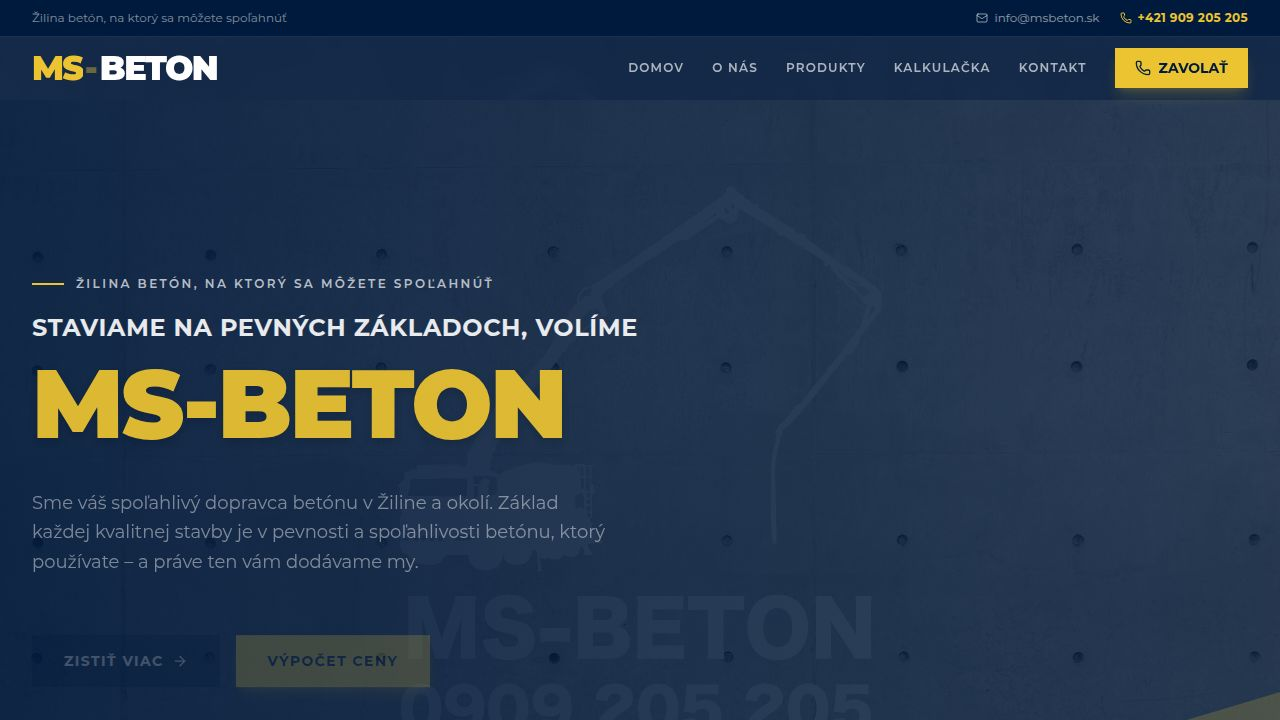
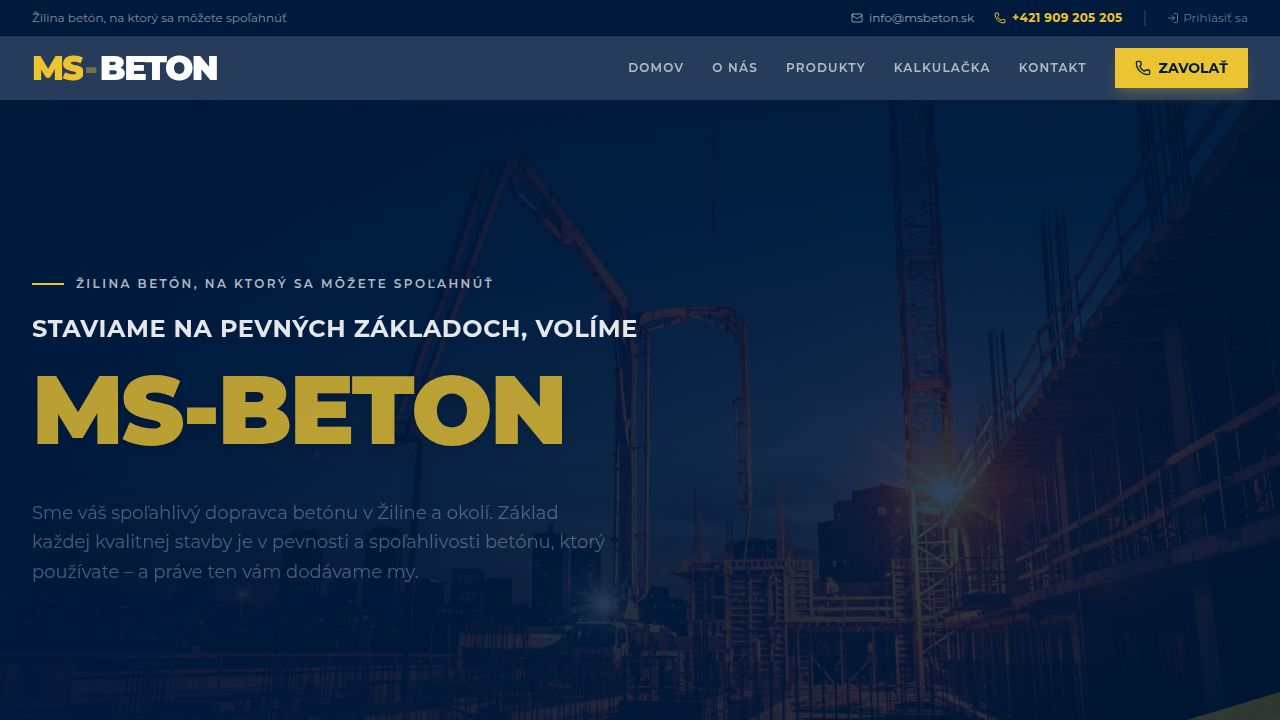
Update website background to a cleaner concrete texture
Replaced existing concrete tile background images with a new, crane-free concrete texture in CSS, adjusting background sizing and positioning for full coverage.

Replit-Commit-Author: Agent
Replit-Commit-Session-Id: f2350a5e-228c-4b8e-9819-9178194cdef0
Replit-Commit-Checkpoint-Type: full_checkpoint
Replit-Commit-Event-Id: 77dc2888-f089-4890-aff5-fc94e3589986
Replit-Commit-Screenshot-Url: https://storage.googleapis.com/screenshot-production-us-central1/8593ea9e-8801-47ee-92dc-188f75a549a7/f2350a5e-228c-4b8e-9819-9178194cdef0/s1Dq1RA
Replit-Helium-Checkpoint-Created: true

diff --git a/artifacts/web/src/index.css b/artifacts/web/src/index.css
@@ -61,18 +61,20 @@
 
 /* Concrete texture — raw tile */
 .concrete-bg {
-  background-image: url('/images/concrete-tile.jpg');
-  background-size: 960px auto;
-  background-repeat: repeat;
-  background-color: #b8b8b8;
+  background-image: url('/images/concrete-pure.jpg');
+  background-size: cover;
+  background-repeat: no-repeat;
+  background-position: center;
+  background-color: #b2b2b2;
 }
 
 /* Concrete dark — navy overlay on concrete */
 .concrete-navy {
-  background-image: url('/images/concrete-tile.jpg');
-  background-size: 960px auto;
-  background-repeat: repeat;
-  background-color: #b8b8b8;
+  background-image: url('/images/concrete-pure.jpg');
+  background-size: cover;
+  background-repeat: no-repeat;
+  background-position: center;
+  background-color: #b2b2b2;
   position: relative;
 }
 .concrete-navy::before {
@@ -89,10 +91,11 @@
 
 /* Concrete light — same texture, lighter overlay */
 .concrete-light {
-  background-image: url('/images/concrete-tile.jpg');
-  background-size: 960px auto;
-  background-repeat: repeat;
-  background-color: #b8b8b8;
+  background-image: url('/images/concrete-pure.jpg');
+  background-size: cover;
+  background-repeat: no-repeat;
+  background-position: center;
+  background-color: #b2b2b2;
   position: relative;
 }
 .concrete-light::before {

diff --git a/attached_assets/content-1774988767866.md b/attached_assets/content-1774988767866.md
@@ -1,0 +1,105 @@
+[Preskočiť na obsah](https://msbeton.sk/#content)
+
+[![MS-BETON - Žilina betón](https://msbeton.sk/wp-content/uploads/2024/04/main-logo.svg)](https://msbeton.sk/)
+
+[+421 909 205 205](tel:%20+421%20909%20205%20205)
+
+[![MS-BETON - Žilina betón](https://msbeton.sk/wp-content/uploads/2024/04/main-logo.svg)](https://msbeton.sk/)
+
+[+421 909 205 205](tel:%20+421%20909%20205%20205)
+
+## Žilina betón, na ktorý sa môžete spoľahnúť
+
+## STAVIAME NA PEVNÝCH  ZÁKLADOCH, VOLÍME
+
+# MS-BETON
+
+Sme váš spoľahlivý dopravca betónu v Žiline a okolí. Vieme, že základ každej kvalitnej stavby je v pevnosti a spoľahlivosti betónu, ktorý používate – a práve ten vám dodávame my.
+
+[Zistiť viac](https://msbeton.sk/#o-nas)
+
+## Žilina betón s profesionálnym prístupom
+
+## O SPOLOČNOSTI
+
+Naša spoločnosť patrí medzi popredných poskytovateľov riešení pre dovoz betónu v Žiline. Vďaka modernému [vozovému parku](https://msbeton.sk/vozovy-park/) – od betónových mixérov až po pumpy – zvládame projekty všetkých veľkostí. Zabezpečujeme kvalitný betón presne tam, kde a kedy ho potrebujete, s dôrazom na efektivitu, spoľahlivosť a výbornú zákaznícku podporu.
+
+### VOZOVÝ PARK
+
+Náš špecializovaný vozový park, vrátane betónových mixérov a betónových púmp, nám umožňuje efektívne dodávať betón aj do najťažšie dostupných oblastí.
+
+### FLEXIBILITA
+
+Vďaka našej technologickej vybavenosti a skúsenému tímu sme schopní prispôsobiť sa rozmanitým požiadavkám projektov a ponúknuť prispôsobené riešenia pre každého klienta.
+
+### PRODUKTIVITA
+
+S našimi betónovými pumpami sme schopní rýchlo a efektívne prepraviť betón priamo na miesto liatia, čo značne znižuje čas potrebný na práce a minimalizuje manuálne úsilie.
+
+![MS-BETON - Žilina betón](https://msbeton.sk/wp-content/uploads/2025/03/Betonaz-2.png)
+
+## Kontakt
+
+## KONTAKTNÉ ÚDAJE
+
+Odoslať
+
+- [+421 909 205 205](tel:%20+421%20909%20205%20205)
+- [info@msbeton.sk](mailto:info@msbeton.sk)
+- **Prevádzka spoločnosti**
+
+
+
+Kamenná 3, 010 01 Žilina
+- **Sídlo spoločnosti**
+
+
+
+Turie 468, 013 12 Turie
+
+## SPOLOČNOSTI,  S KTORÝMI SPOLUPRACUJEME
+
+[![logo](https://msbeton.sk/wp-content/uploads/2025/03/zapa-beton.png)](https://www.zapa.sk/sk)
+
+[![logo](https://msbeton.sk/wp-content/uploads/2025/03/2bh.png)](https://2bh.sk/)
+
+[![logo](https://msbeton.sk/wp-content/uploads/2025/03/renome-real-2.png)](https://renomereal.sk/)
+
+[![logo](https://msbeton.sk/wp-content/uploads/2025/03/al-stav.png)](https://alstav.sk/)
+
+[![logo](https://msbeton.sk/wp-content/uploads/2025/03/benneb.png)](https://www.bennebsro.sk/)
+
+[![logo](https://msbeton.sk/wp-content/uploads/2025/03/melo-sk.png)](https://melo-sk.sk/)
+
+[![logo](https://msbeton.sk/wp-content/uploads/2025/03/oie_transparent-2.png)](https://www.vdl.sk/)
+
+[![logo](https://msbeton.sk/wp-content/uploads/2025/03/erpos-1.png)](https://www.erpos.sk/)
+
+[![logo](https://msbeton.sk/wp-content/uploads/2025/03/pro-bet.png)](https://proxbet.sk/)
+
+[![logo](https://msbeton.sk/wp-content/uploads/2025/03/proma.png)](https://www.proma.sk/)
+
+[![logo](https://msbeton.sk/wp-content/uploads/2025/03/alpestav-2.png)](https://alpestav.sk/)
+
+![logo](https://msbeton.sk/wp-content/uploads/2025/04/PP-company-02.png)
+
+![logo](https://msbeton.sk/wp-content/uploads/2025/04/Primarne-logo-cervene.png)
+
+[![MS-BETON - Žilina betón](https://msbeton.sk/wp-content/uploads/2024/04/MsBeton-Logo-266x300.png)](https://msbeton.sk/)
+
+- [Domov](https://msbeton.sk/)
+- [Vozový park](https://msbeton.sk/vozovy-park/)
+- [Cenník](https://msbeton.sk/cennik/)
+- [Kontakt](https://msbeton.sk/kontakt/)
+- [Výpočet ceny](https://msbeton.sk/vypocet-ceny/)
+
+- [+421 909 205 205](tel:%20+421%20909%20205%20205)
+- [info@msbeton.sk](mailto:info@msbeton.sk)
+- **Prevádzka spoločnosti**
+
+Kamenná 3, 010 01 Žilina
+- **Sídlo spoločnosti**
+
+Turie 468, 013 12 Turie
+
+© Copyright 2025 MS-BETON
